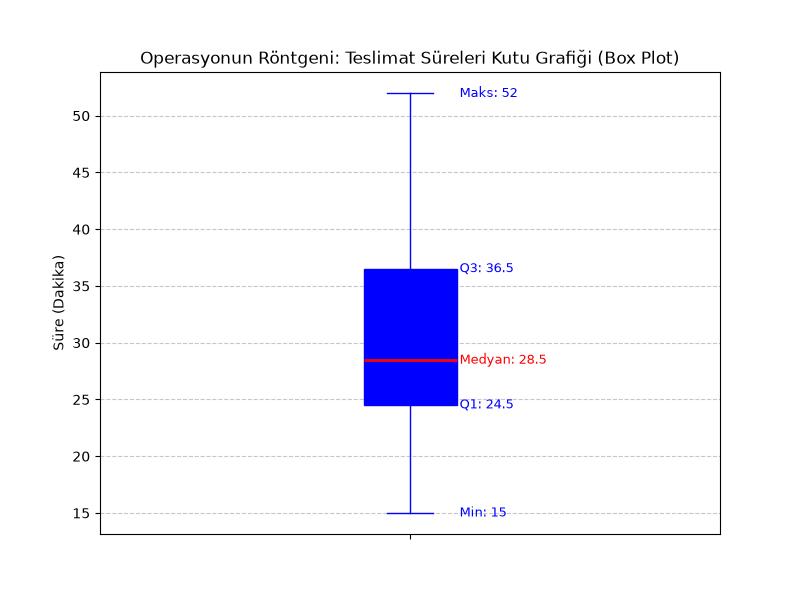
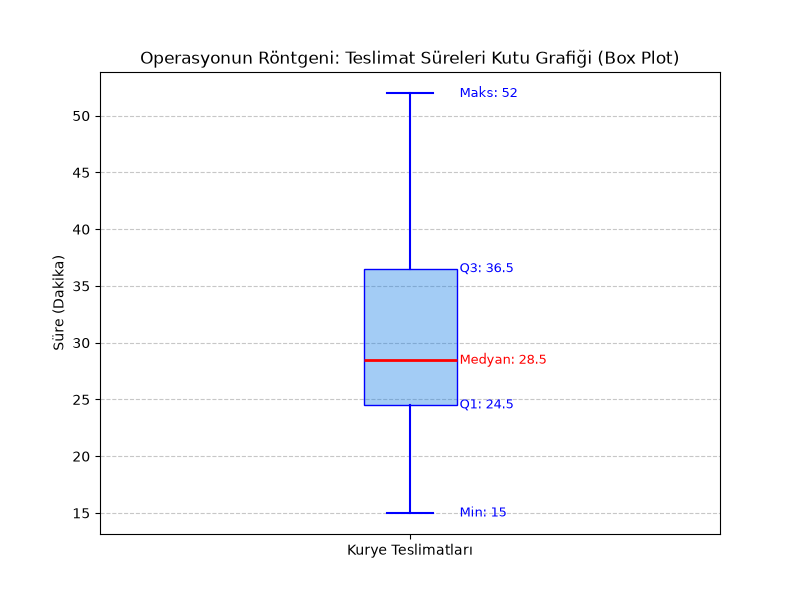
Refactor boxplot code to use raw dynamic data

diff --git a/02-understanding-data/plot_boxplot.py b/02-understanding-data/plot_boxplot.py
@@ -1,45 +1,53 @@
 import matplotlib.pyplot as plt
+import numpy as np
 
-# Metinde belirtilen değerler
-# Medyan (Q2): 28.5
-# Alt Çeyreklik (Q1): 24.5
-# Üst Çeyreklik (Q3): 36.5
-# Çeyrekler Arası Açıklık (IQR): 12
-
-# Kutu grafiği istatistiklerini doğrudan tanımlıyoruz ki metinle birebir uyumlu olsun
-stats = [{
-    'label': '',
-    'med': 28.5,
-    'q1': 24.5,
-    'q3': 36.5,
-    'whislo': 15,  # Örnek minimum değer
-    'whishi': 52,  # Örnek maksimum değer
-    'fliers': []
-}]
+# Teslimat sürelerini temsil eden ham veri seti (Dakika cinsinden, 20 adet)
+teslimat_sureleri = [15, 18, 20, 21, 23, 25, 26, 26, 27, 28, 29, 30, 32, 34, 36, 38, 40, 42, 48, 52]
 
 fig, ax = plt.subplots(figsize=(8, 6))
 
-# bxp ile önceden hesaplanmış istatistiklerle kutu grafiği çizimi
-# Kutu içi dolu ve mavi şeffaf yapıldı (RGBA: (0, 0, 1, 0.3))
-ax.bxp(stats, patch_artist=True, 
-        boxprops=dict(facecolor=(0.1, 0.5, 0.9, 0.4), color='blue'),
-        whiskerprops=dict(color='blue'),
-        capprops=dict(color='blue'),
-        medianprops=dict(color='red', linewidth=2))
+# ax.boxplot ile ham veriden kutu grafiği çizimi
+# patch_artist=True kutunun içini renklendirmemizi sağlar
+box = ax.boxplot(teslimat_sureleri, patch_artist=True)
+
+# Kutunun ve çizgilerin renklerini ayarlama
+for patch in box['boxes']:
+    patch.set_facecolor((0.1, 0.5, 0.9, 0.4))  # Mavi şeffaf dolgu
+    patch.set_edgecolor('blue')
+
+for median in box['medians']:
+    median.set(color='red', linewidth=2)
+
+for whisker in box['whiskers']:
+    whisker.set(color='blue', linewidth=1.5)
+    
+for cap in box['caps']:
+    cap.set(color='blue', linewidth=1.5)
+
+# NumPy ile verinin istatistiklerini hesaplıyoruz (Grafiğe yazdırmak için)
+q1 = np.percentile(teslimat_sureleri, 25)
+med = np.median(teslimat_sureleri)
+q3 = np.percentile(teslimat_sureleri, 75)
+min_val = min(teslimat_sureleri)
+max_val = max(teslimat_sureleri)
 
 # Değerleri grafik üzerinde minik şekilde gösterme
-x_pos = 1.08 # Metinleri daha yakına (kutunun hemen yanına) alıyoruz
-ax.text(x_pos, stats[0]['med'], f"Medyan: {stats[0]['med']}", va='center', fontsize=9, color='red')
-ax.text(x_pos, stats[0]['q1'], f"Q1: {stats[0]['q1']}", va='center', fontsize=9, color='blue')
-ax.text(x_pos, stats[0]['q3'], f"Q3: {stats[0]['q3']}", va='center', fontsize=9, color='blue')
-ax.text(x_pos, stats[0]['whislo'], f"Min: {stats[0]['whislo']}", va='center', fontsize=9, color='blue')
-ax.text(x_pos, stats[0]['whishi'], f"Maks: {stats[0]['whishi']}", va='center', fontsize=9, color='blue')
+x_pos = 1.08 # Metinleri kutunun hemen yanına hizalıyoruz
+ax.text(x_pos, med, f"Medyan: {med}", va='center', fontsize=9, color='red')
+ax.text(x_pos, q1, f"Q1: {q1}", va='center', fontsize=9, color='blue')
+ax.text(x_pos, q3, f"Q3: {q3}", va='center', fontsize=9, color='blue')
+ax.text(x_pos, min_val, f"Min: {min_val}", va='center', fontsize=9, color='blue')
+ax.text(x_pos, max_val, f"Maks: {max_val}", va='center', fontsize=9, color='blue')
 
 # Eksen ve başlık ayarları
 ax.set_ylabel('Süre (Dakika)')
 ax.set_title('Operasyonun Röntgeni: Teslimat Süreleri Kutu Grafiği (Box Plot)')
+
+# x ekseni ismini ayarlıyoruz
+ax.set_xticklabels(['Kurye Teslimatları'])
+
 ax.grid(axis='y', linestyle='--', alpha=0.7)
 
 # Grafiği kaydet
 fig.savefig('boxplot.png')
-print("Kutu grafiği (boxplot.png) başarıyla oluşturuldu ve kaydedildi.")
+print("Kutu grafiği (boxplot.png) ham veri kullanılarak başarıyla oluşturuldu ve kaydedildi.")
